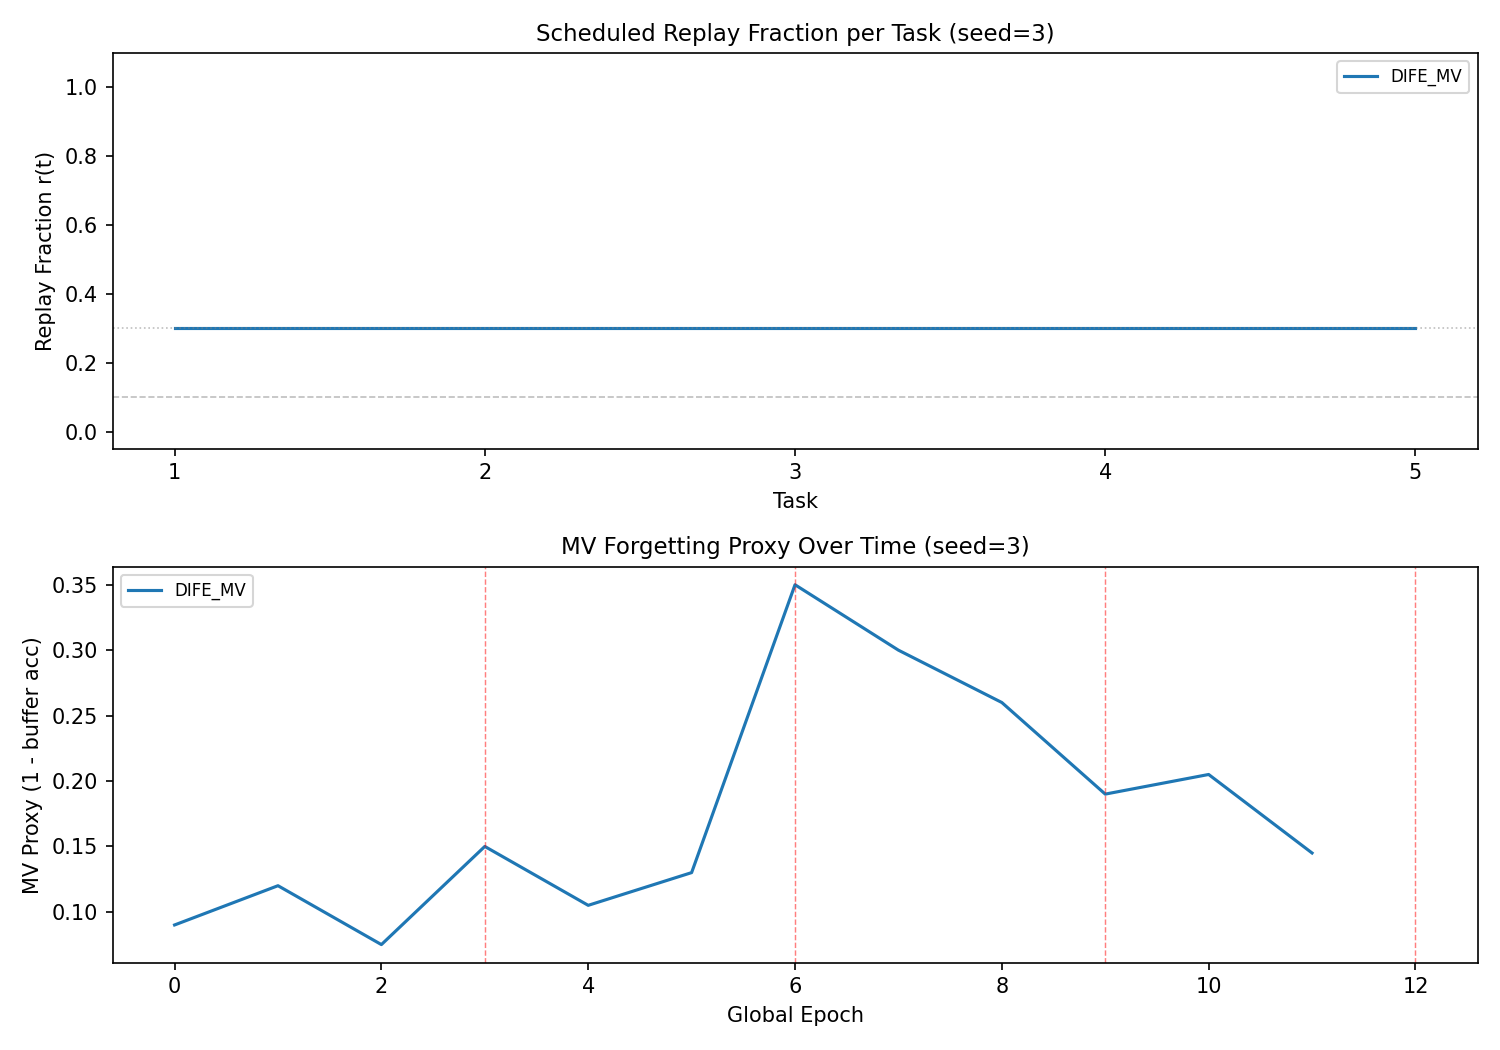
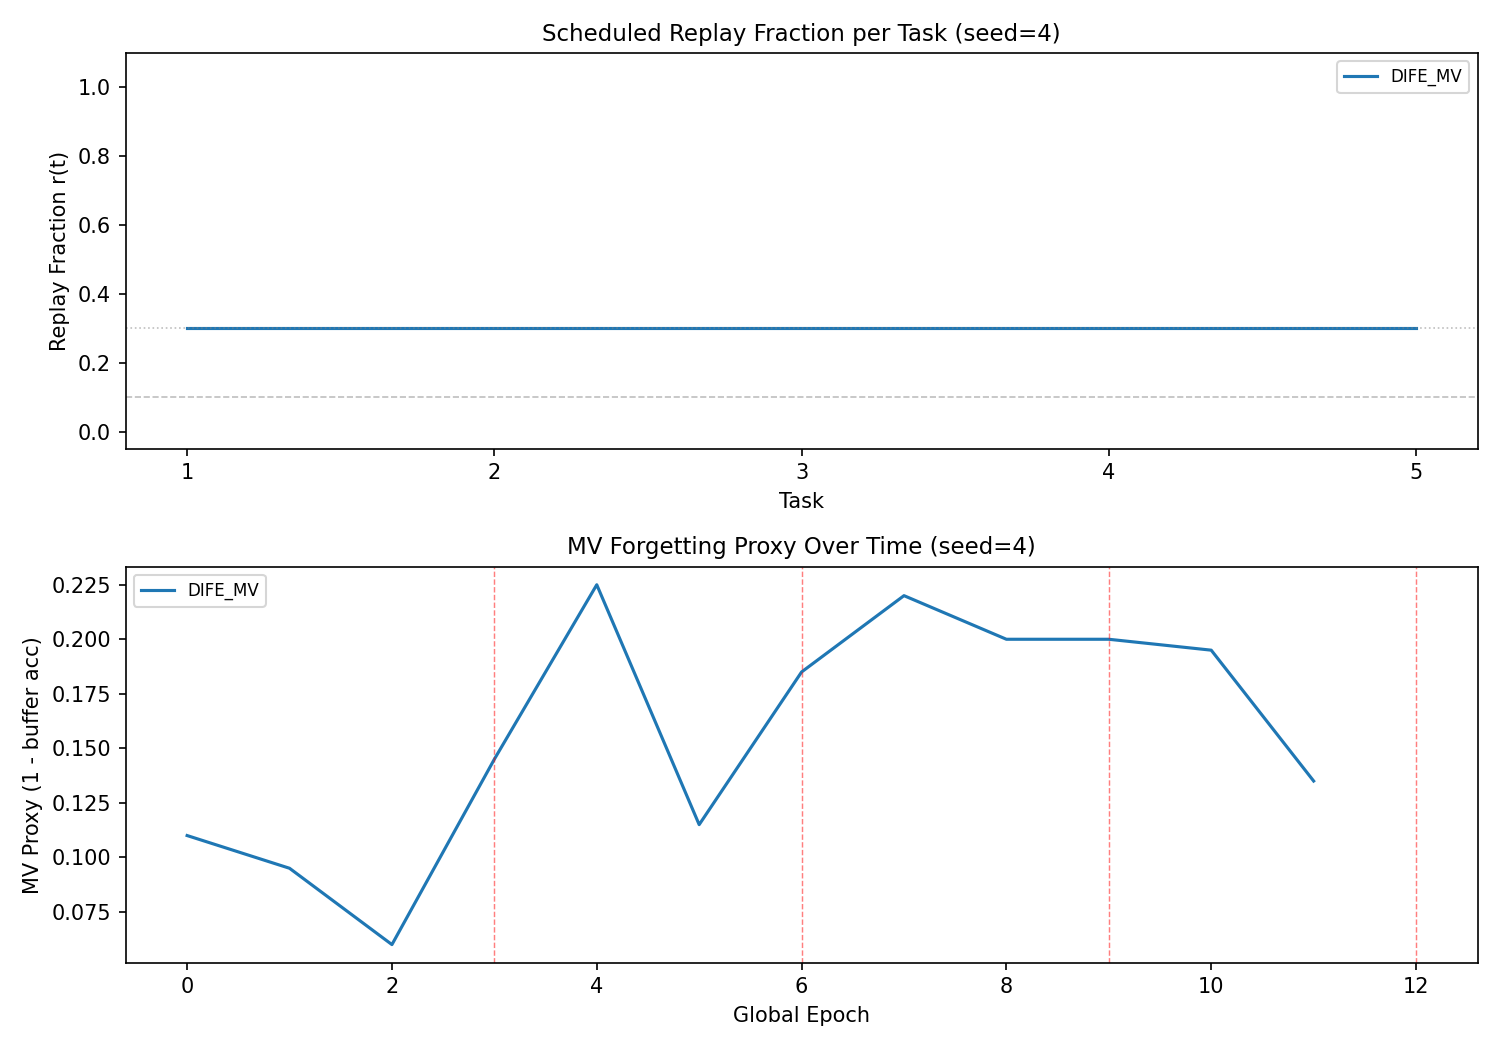
Auto-commit: save work in progress before session end
https://claude.ai/code/session_01HKDqKDisC58RBgQycSck5u

diff --git a/results/sweep_repaired/r_max_0.30/split_cifar/RESULTS_split_cifar.md b/results/sweep_repaired/r_max_0.30/split_cifar/RESULTS_split_cifar.md
@@ -6,7 +6,7 @@ Benchmark: Permuted-MNIST  |  Seeds: 3  |  Tasks: 5  |  Epochs/task: 3
 
 | Method | AA ↑ | AF ↓ | BWT ↑ | FWT | Replay Budget | Efficiency* |
 |--------|------|------|-------|-----|--------------|-------------|
-| DIFE_MV            | 0.828±0.000 | 0.104±0.000 | -0.104±0.000 | 0.135±0.000 | 30,810±0 | 0.0000 |
+| DIFE_MV            | 0.826±0.000 | 0.108±0.000 | -0.108±0.000 | 0.132±0.000 | 32,943±0 | 0.0000 |
 
 \* Efficiency = AF improvement per 10,000 replay samples vs FT baseline.
   Higher is better; 0 = no replay (FT).
@@ -28,9 +28,9 @@ alpha and beta fitted online (causal) per task:
 Method: DIFE_MV
   t=1    0.9000       0.0000      0.010000   0.000000
   t=2    0.9000       0.0000      0.010000   0.000000
-  t=3    0.9506       0.0000      0.001000   0.000000
-  t=4    0.9140       0.0000      0.001000   0.000000
-  t=5    0.9408       0.0000      0.001000   0.000000
+  t=3    0.9656       0.0000      0.001000   0.000000
+  t=4    0.9507       0.0000      0.001000   0.000000
+  t=5    0.9552       0.0000      0.001000   0.000000
 
 ---
 
@@ -39,7 +39,7 @@ Method: DIFE_MV
 proxy = 1 - accuracy_on_buffer (computed per epoch)
 
 Method: DIFE_MV
-  seed=3: 12 epochs recorded, non-zero values: 12, max=0.3500, mean=0.1767
+  seed=4: 12 epochs recorded, non-zero values: 12, max=0.2250, mean=0.1571
 
 Note: With 3 epochs/task on perm_mnist, buffer accuracy stays near 1.0
 throughout training (low intra-task forgetting), so proxy ≈ 0 across all epochs.
